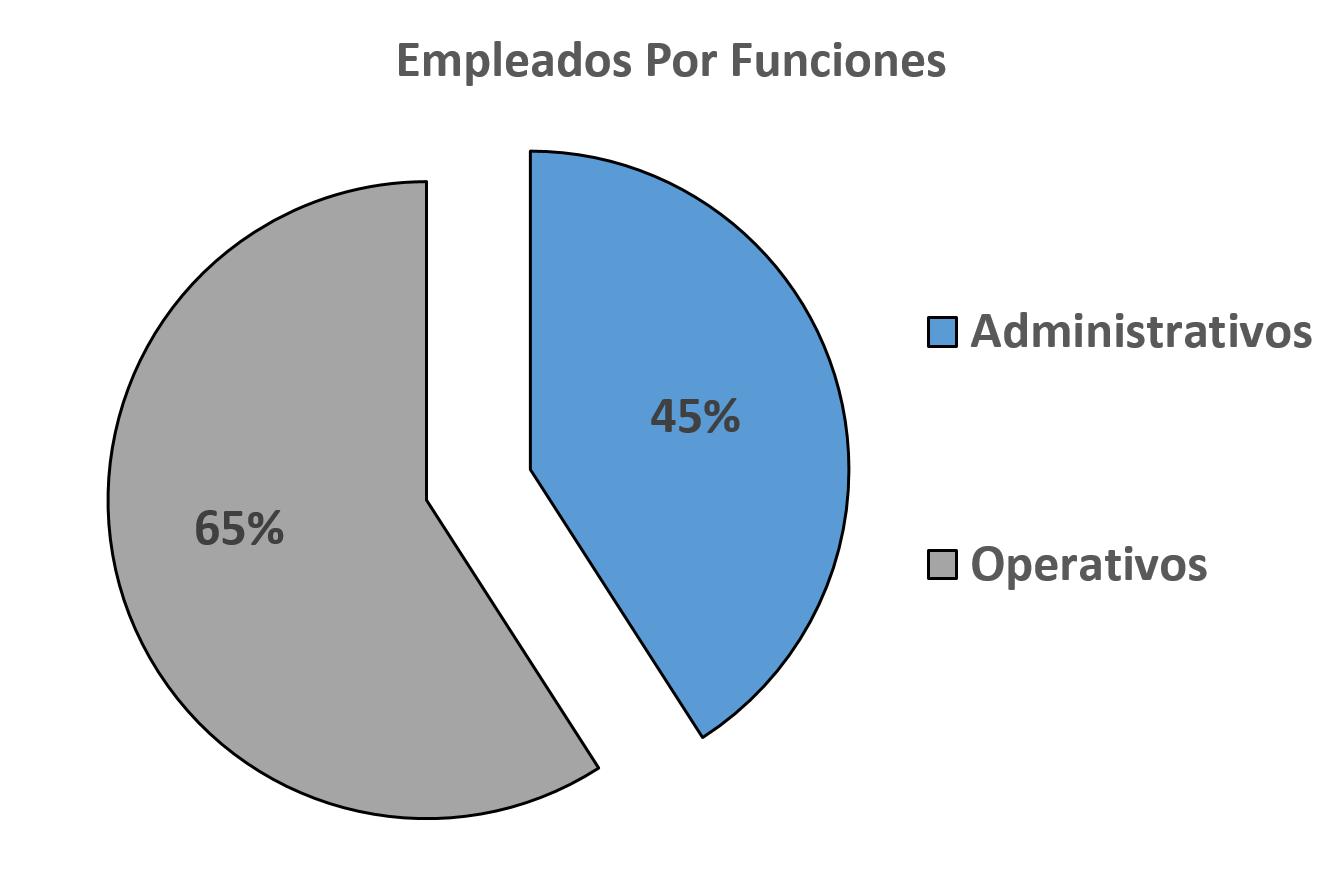
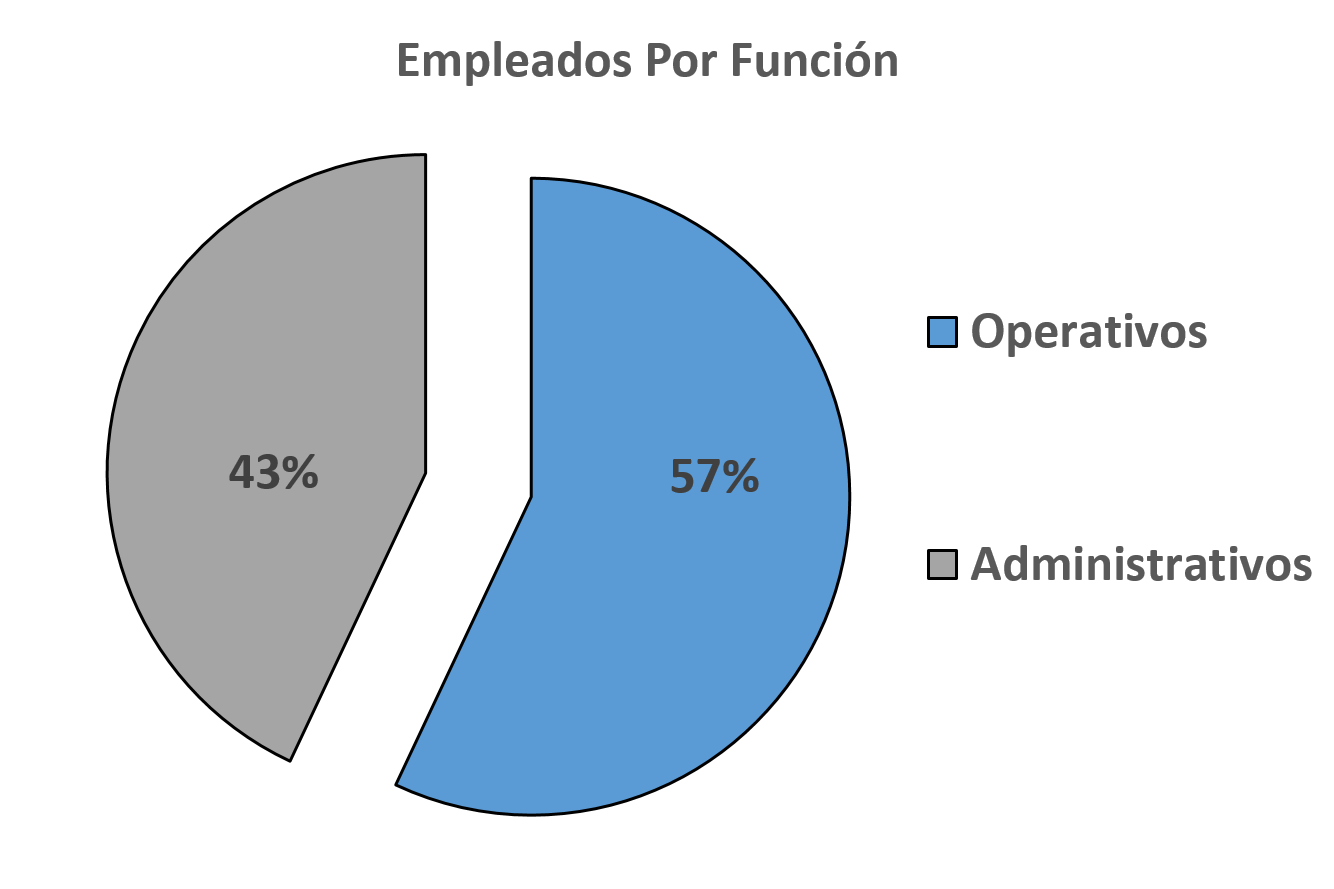
Widget 6 y 7

diff --git a/css/estilos_indice.css b/css/estilos_indice.css
@@ -63,23 +63,23 @@
                 background-color: rgb(47, 133, 231);
             }
 
-        /* widget 2 */
-        .personal {
-            flex-direction: column;
-            text-align: center;
-            justify-content: center;
-            font-size: 40px;
-            font-weight: bold;
-        }
-
-        /* widget 3 - 4 - 5*/
-        .widget img{
-            display: flex;
-            text-align: center;
-            justify-content: center;
-            width: 100%;
-            height: 100%;
+            /* widget 2 */
+            .personal {
+                flex-direction: column;
+                text-align: center;
+                justify-content: center;
+                font-size: 40px;
+                font-weight: bold;
             }
+
+            /* widget 3 - 4 - 5 - 6*/
+            .widget img{
+                display: flex;
+                text-align: center;
+                justify-content: center;
+                width: 100%;
+                height: 100%;
+                }
  
 
 

diff --git a/index.html b/index.html
@@ -112,10 +112,10 @@
                     <img src="img/Localidad.png">
                 </div>
                 <div class="widget">
-                    widget 6
+                    <img src="img/Modalidad.png">
                 </div>
                 <div class="widget">
-                    widget 7
+                    <img src="img/Tiempo.png">
                 </div>
                 <div class="widget">
                     widget 8
